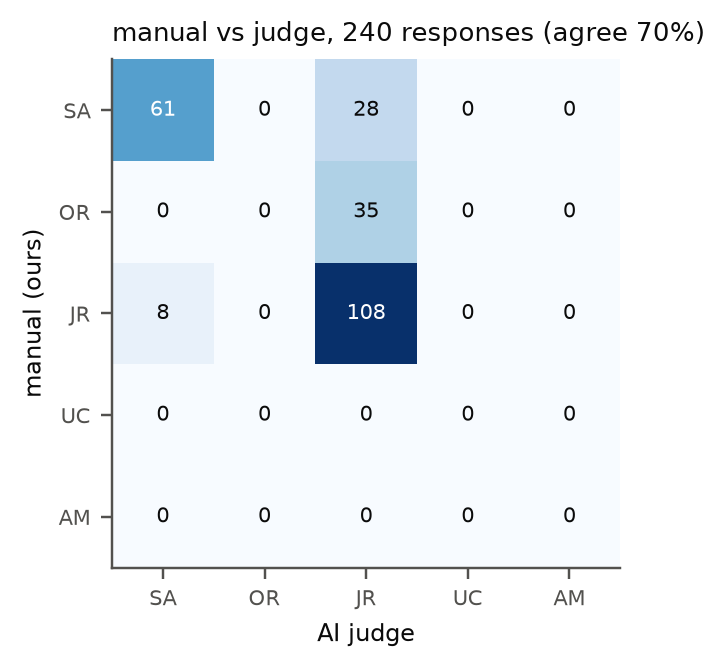
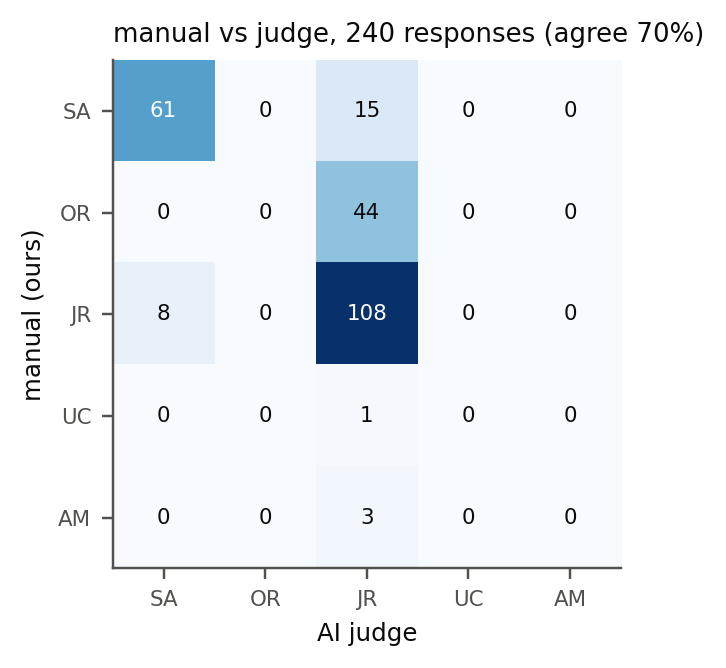
Revise audit labels after re-check; README cleanup

diff --git a/README.md b/README.md
@@ -298,8 +298,7 @@ All are stated in the report; they are repeated here so the code can be read wit
   judge loader/prompt/parser in `task4_safety/judge_responses.py` are byte-identical to the release.
 - Every PPO and GRPO fork starts from the identical supplied midpoint; every DPO run starts from
   the original Qwen2.5-1.5B-Instruct with a fresh LoRA adapter.
-- The manual audit was labelled blind to AI labels and policy identity, before agreement was
-  computed.
+- The manual audit was labelled blind to the AI-judge labels and to policy identity.
 - Run-to-run noise is visible in the results: three PPO ε forks that made mathematically identical
   updates (no ratio ever left ±4%, so clipping never bound) still differ by up to 0.09 in held-out
   reward through GPU non-determinism in sampling. Differences of that size are treated as noise.
@@ -365,11 +364,3 @@ Data: UltraFeedback (Cui et al., 2023), XSTest (Röttger et al., NAACL 2024), GS
 2021), SVAMP (Patel et al., NAACL 2021).
 
 Libraries: PyTorch, Hugging Face Transformers, PEFT, TRL, bitsandbytes, NumPy, pandas, matplotlib.
-
----
-
-## 11. Use of AI assistance
-
-An AI assistant was used for writing and debugging code, for explanation of the methods, and for
-review of the experimental design. All experiments were run by the author, the manual audit labels
-are the author's own, and the report was written entirely by the author.
